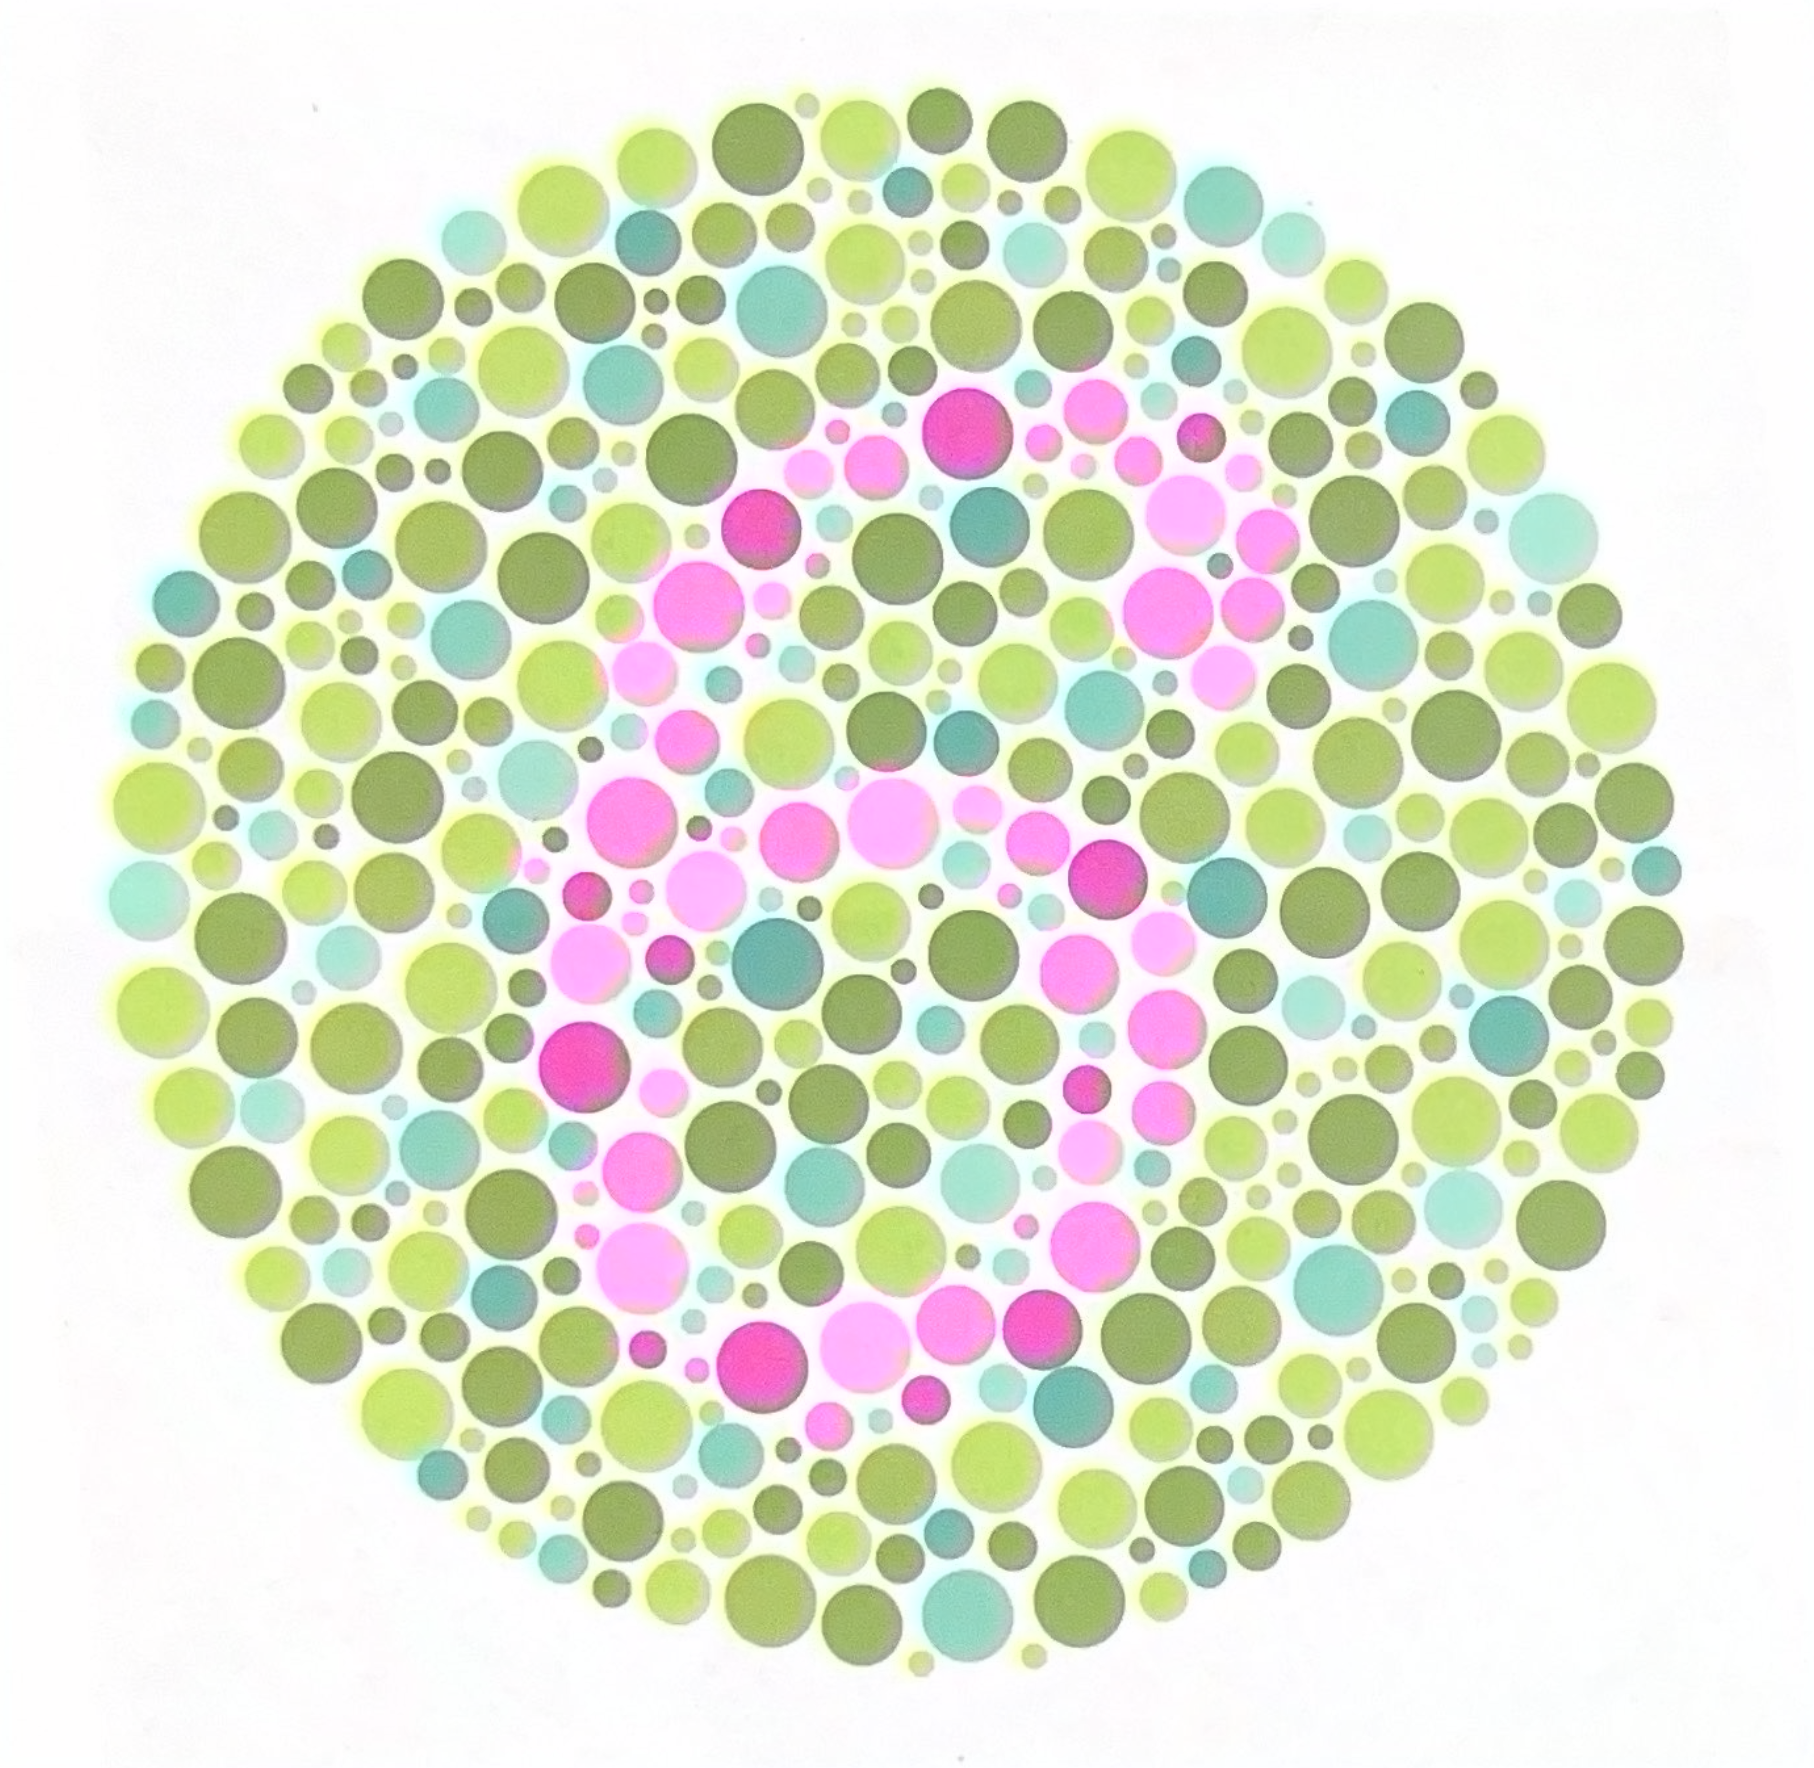
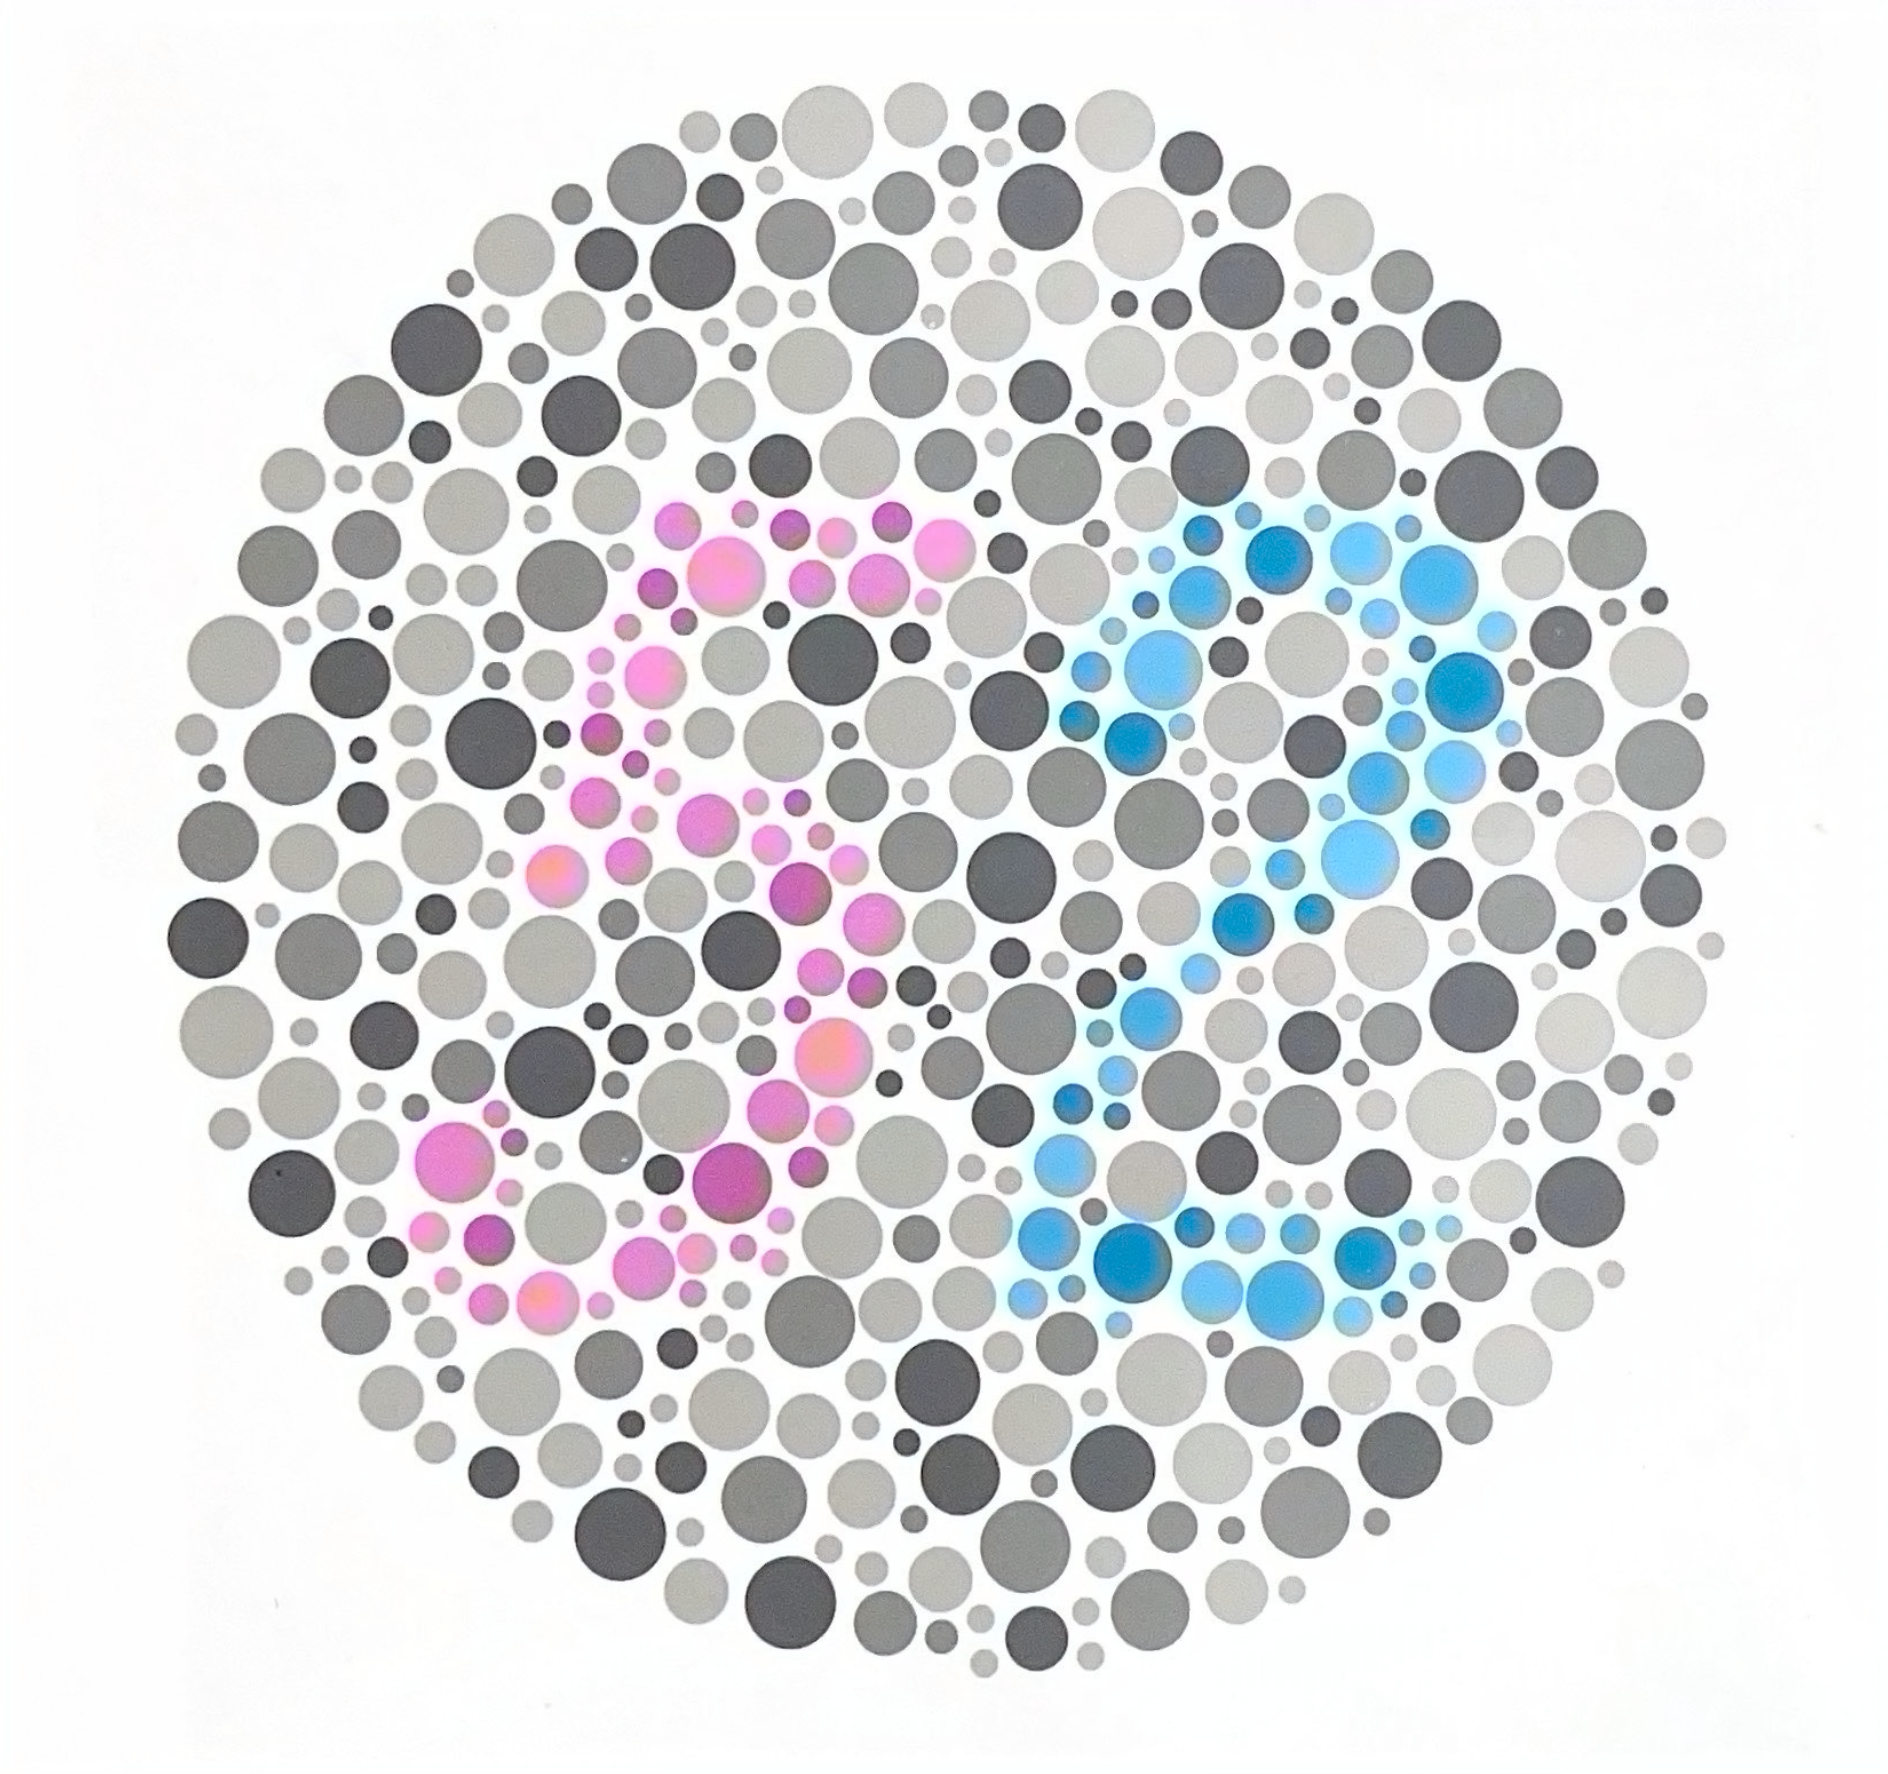
protanopin DB success

diff --git a/resources/model_serving.py b/resources/model_serving.py
@@ -8,6 +8,8 @@ import cv2
 from skimage import color
 import os
 from flask import current_app as app
+import pymysql
+import logging
 
 api = Namespace(
     name="model_serving",
@@ -29,7 +31,6 @@ class Colorize(Resource):
         result = colorized(image)
 
         return jsonify({'url': result})
-       
     
 def colorized(img_file):
 
@@ -64,24 +65,87 @@ def colorized(img_file):
         flags = cv2.KMEANS_RANDOM_CENTERS
         rep_colors = []
         position = []
+        compare_colors = []
         for cell_idx, cell in enumerate(cells):
             pixel_colors = cell.reshape((-1, 3)).astype(np.float32)
             _, labels, centers = cv2.kmeans(pixel_colors, num_colors, None, criteria, 10, flags)
-            
-            rep_colors.append([centers[0][1],centers[0][2]])
 
+            compare_colors.append([int(centers[0][0]/5),int(centers[0][1]/13),int(centers[0][2]/13)])
+            rep_colors.append([centers[0][0],centers[0][1],centers[0][2]])
             cell_row = cell_idx // (w // cell_w)  # 셀의 행 인덱스 계산
             cell_col = cell_idx % (w // cell_w)  # 셀의 열 인덱스 계산
             cell_position = (int(cell_row * cell_h ) , int(cell_col * cell_w)) # 셀의 위치 정보 저장
             position.append(cell_position)
+        compare = list(set(map(tuple, compare_colors)))   
+
+        #로그 출력
+        logger = logging.getLogger()
+        logger.setLevel(logging.INFO)
+        #쿼리 연결    
+        connection = pymysql.connect(
+            host=app.config['MYSQL_HOST'],
+            port=app.config['MYSQL_PORT'],
+            user=app.config['MYSQL_USER'],
+            password=app.config['MYSQL_PASSWORD'],
+            db=app.config['MYSQL_DB']
+        )
         
+        # 쿼리 실행
+        cursor = connection.cursor()
+
+        exist_db = []
+        for com in compare:
+            L, a, b = com[0], com[1], com[2]
+            sql_com = 'SELECT Type FROM COLORBLIND.protanopin WHERE L = ' + str(L) + ' and a = '+ str(a) + ' and b =' + str(b)
+            cursor.execute(sql_com)
+            result = cursor.fetchall()
+            if len(result) > 0:
+                #이때 그 혼동색 라인에 있는 색을 찾는게 좋을듯...!!! 그 함수를 만들어 보자
+                exist_db.append(result[0][0])
+            else:
+                print("No rows found.")
+        
+        #혼동선 라인
+        exist_db = list(set(exist_db))
+        # print(exist_db)
+        for db in exist_db:
+            color_line = []
+            sql_com = 'SELECT L,a,b FROM COLORBLIND.protanopin WHERE Type = \'' + db + '\''
+            cursor.execute(sql_com)
+            result = cursor.fetchall()
+            if len(result) > 2:
+                for r in result:
+                    color_line.append(r)
+            cnt = []
+            line = []
+            for col in color_line:
+                count = 0
+                for com, rep in zip(compare_colors, rep_colors):
+                    if col[0] == com[0] and col[1]==com[1] and col[2]==com[2]:
+                        count += 1
+                if count > 0 :
+                    cnt.append(count)
+                    line.append([col[0], col[1], col[2]])
+            print(line)
+            print(cnt)
+            if len(cnt)>=2:
+                idx_max = max(cnt)
+                for col_li, c in zip(line,cnt) :
+                    if c !=idx_max:
+                        for com, rep in zip(compare_colors, rep_colors):
+                            if col_li[0] == com[0] and col_li[1]==com[1] and col_li[2]==com[2]:
+                                rep[1] += 13 
+                                rep[2] -= 30
+            
+       
+
         # initialize with no user inputs
         input_ab = np.zeros((2,256,256))
         mask = np.zeros((1,256,256))
 
         # Colorize image with hints
         for col, pos in zip(rep_colors, position):
-            (input_ab,mask) = put_point(input_ab,mask,pos,1,col)
+            (input_ab,mask) = put_point(input_ab,mask,pos,1,col[1:])
 
         # call forward
         img_out = colorModel.net_forward(input_ab,mask)
@@ -112,3 +176,4 @@ def put_point(input_ab,mask,loc,p,val):
     input_ab[:,loc[0]-p:loc[0]+p+1,loc[1]-p:loc[1]+p+1] = np.array(val)[:,np.newaxis,np.newaxis]
     mask[:,loc[0]-p:loc[0]+p+1,loc[1]-p:loc[1]+p+1] = 1
     return (input_ab,mask)
+

diff --git a/app.py b/app.py
@@ -5,6 +5,7 @@ from resources.post_image import api as post_namespace
 from resources.get_image import api as get_namespace
 from resources.model_serving import api as model_namespace
 import os
+import pymysql
 
 app = Flask(__name__)
 CORS(app)
@@ -17,15 +18,44 @@ api = Api(
 
 app.config['UPLOAD_FOLDER'] = os.path.join(app.static_folder, 'images')
 
+app.config['MYSQL_HOST'] = 'localhost'  # MySQL 호스트
+app.config['MYSQL_PORT'] = 3306
+app.config['MYSQL_USER'] = 'root'  # MySQL 사용자 이름
+app.config['MYSQL_PASSWORD'] = 'rbtns0710'  # MySQL 비밀번호
+app.config['MYSQL_DB'] = 'COLORBLIND'  # MySQL 데이터베이스 이름
+
+#mysql = MySQL(app)
+
 @app.route('/')
 def index():
-    app.logger.info('Web connection established.')
-    return 'Hello, World!'
+    connection = pymysql.connect(
+        host=app.config['MYSQL_HOST'],
+        port=app.config['MYSQL_PORT'],
+        user=app.config['MYSQL_USER'],
+        password=app.config['MYSQL_PASSWORD'],
+        db=app.config['MYSQL_DB']
+    )
+
+    # 쿼리 실행 예시
+    cursor = connection.cursor()
+    cursor.execute('SELECT * FROM COLORBLIND.protanopin')
+    result = cursor.fetchall() 
+    #print(result)
+    # 결과 처리 예시
+
+    output = ''
+    for row in result:
+        output += f'{row[0]}\n'
+    # 연결 종료
+    connection.close()
+
+    return output
 
 api.add_namespace(post_namespace, path="/post")
 api.add_namespace(get_namespace, path="/get")
-api.add_namespace(model_namespace, path="/colorization",)
+api.add_namespace(model_namespace, path="/colorization")
 
-
+                        
 if __name__ == "__main__":
-    app.run(host='0.0.0.0', port=5100, debug=True)
+    app.run(host='0.0.0.0', port=5111, debug=True)
+    index()
